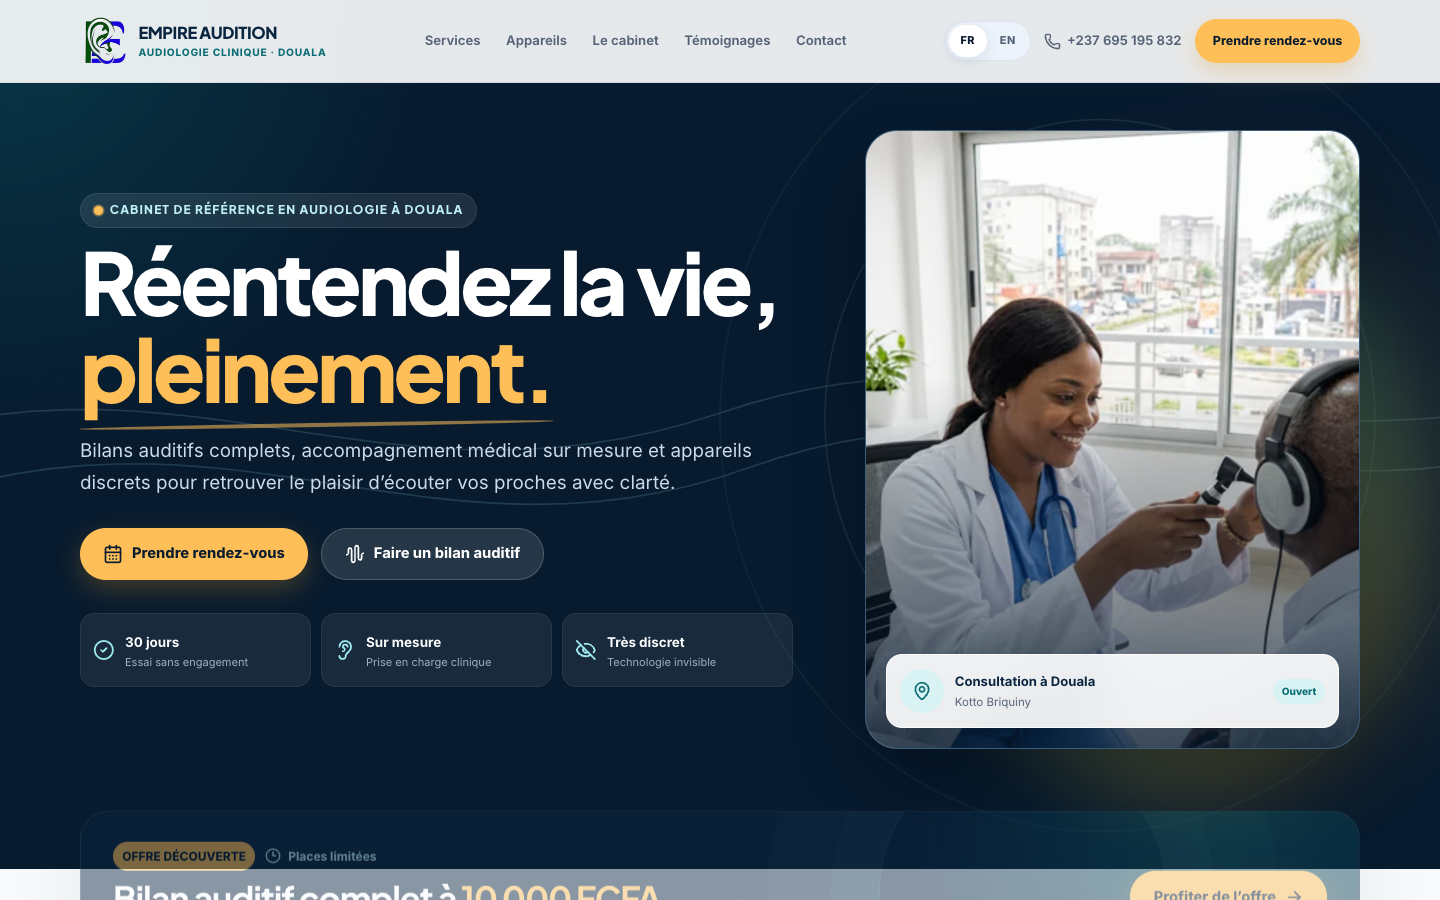
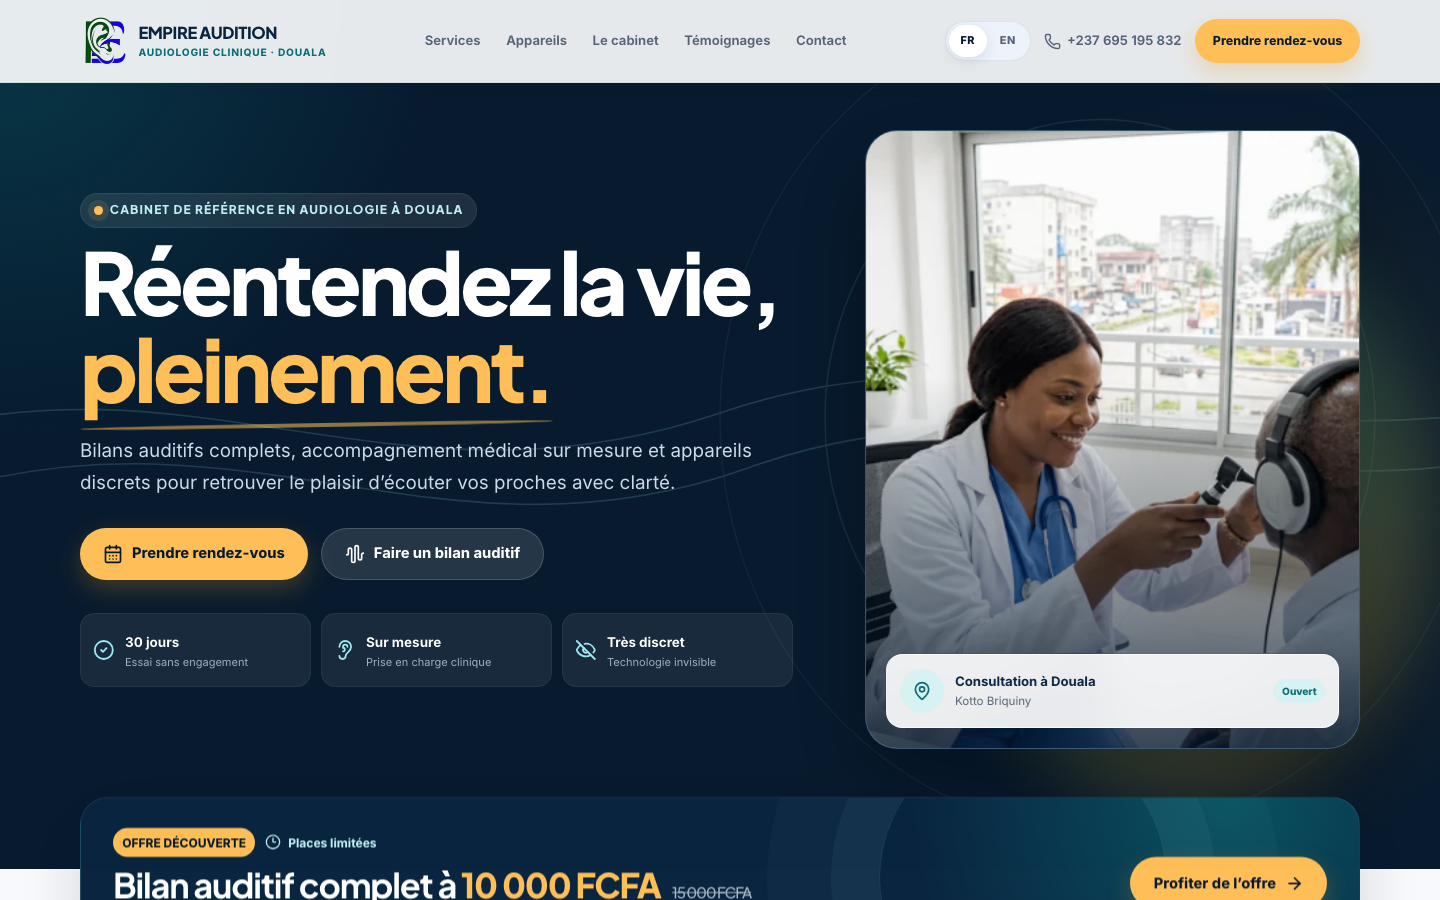
Point Empire Audition at its Vercel URL instead of empireaudition.cm.

diff --git a/app/app.vue b/app/app.vue
@@ -6,7 +6,7 @@ import { useI18n } from 'vue-i18n'
 useReveal()
 
 const { t, locale } = useI18n()
-const siteUrl = 'https://empireaudition.cm'
+const siteUrl = 'https://empire-audition.vercel.app'
 
 const title = computed(() => t('seo.title'))
 const description = computed(() => t('seo.description'))

diff --git a/nuxt.config.ts b/nuxt.config.ts
@@ -12,7 +12,7 @@ const i18nOptions = {
     redirectOn: 'root' as const,
     fallbackLocale: 'fr',
   },
-  baseUrl: 'https://empireaudition.cm',
+  baseUrl: 'https://empire-audition.vercel.app',
 }
 
 export default defineNuxtConfig({

diff --git a/README.md b/README.md
@@ -2,19 +2,19 @@
 
 ![Page d'accueil](docs/portfolio/home.png)
 
-Capture de l'accueil servi en local (`nuxt dev`), le domaine public ne répondant pas depuis cette machine.
+Capture de l'accueil en ligne.
 
 
 Site vitrine du cabinet d’audiologie **Empire Audition** (Kotto Briquiny, Douala). Bilans auditifs, appareillage et prise de rendez-vous — en français et en anglais.
 
-**Production :** [https://empireaudition.cm](https://empireaudition.cm)
+**Production :** [https://empire-audition.vercel.app/](https://empire-audition.vercel.app/)
 
 ## Stack
 
 - [Nuxt 4](https://nuxt.com/) (Vue 3) — génération statique
 - [@nuxtjs/i18n](https://i18n.nuxtjs.org/) — `fr` (défaut) et `en`
 - TypeScript strict
-- Déploiement prévu sur Vercel (`nuxt generate`)
+- Déployé sur Vercel (`nuxt generate`)
 
 ## Prérequis
 
